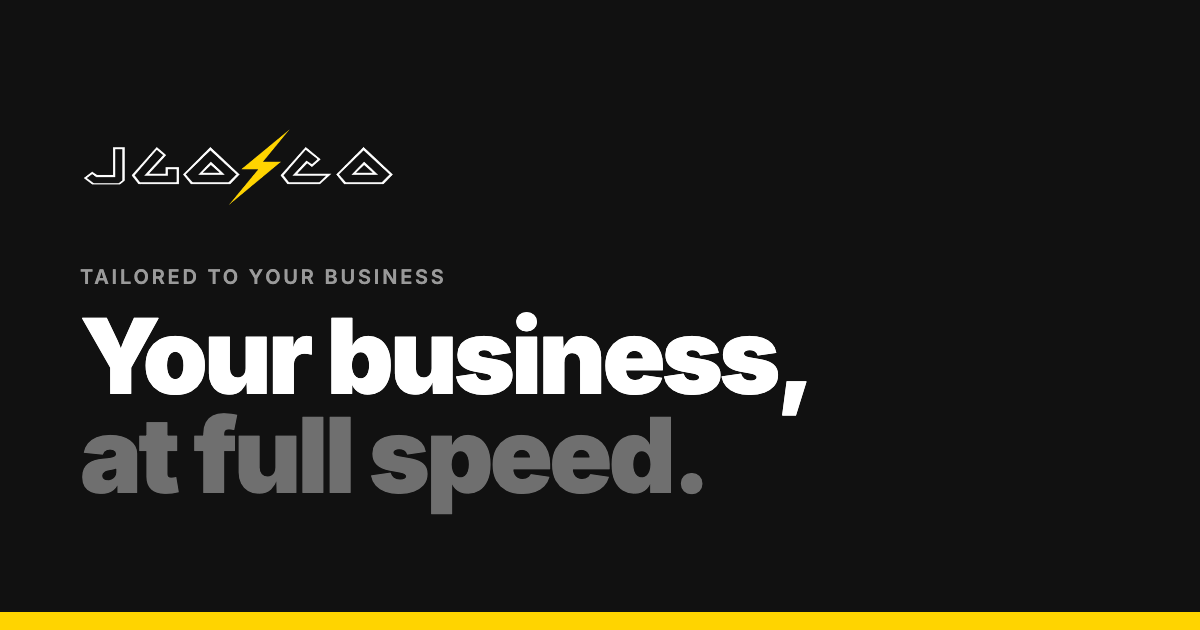
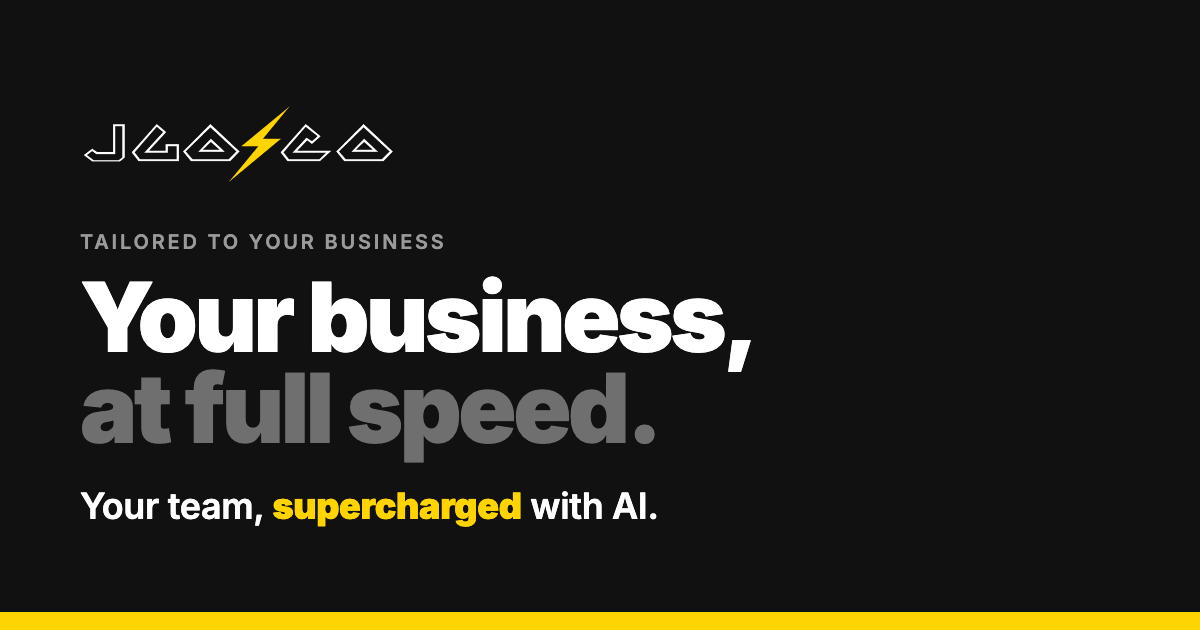
Link card subheader: Your team, supercharged with AI

Changed region(s): [[0.0617, 0.4222, 0.6783, 0.8444], [0.0617, 0.181, 0.3392, 0.3016], [0.0617, 0.3619, 0.37, 0.3921]]

diff --git a/consult.html b/consult.html
@@ -7,7 +7,7 @@
 <meta name="description" content="A few questions about your business, so the first conversation is about you.">
 <meta property="og:title" content="Book a consultation with JGoCo">
 <meta property="og:description" content="A few questions about your business. About five minutes.">
-<meta property="og:image" content="https://jgoco.me/img/og-card.png?v=2">
+<meta property="og:image" content="https://jgoco.me/img/og-card.png?v=3">
 <meta name="twitter:card" content="summary_large_image">
 <link rel="icon" type="image/png" href="img/favicon.png">
 <link rel="apple-touch-icon" href="img/apple-touch-icon.png">

diff --git a/index.html b/index.html
@@ -7,7 +7,7 @@
 <meta name="description" content="We optimize the systems you already run, rebuild the ones holding you back, and give your team AI tools that move faster than ever.">
 <meta property="og:title" content="JGoCo">
 <meta property="og:description" content="Optimize. Rebuild. Move faster with AI.">
-<meta property="og:image" content="https://jgoco.me/img/og-card.png?v=2">
+<meta property="og:image" content="https://jgoco.me/img/og-card.png?v=3">
 <meta property="og:url" content="https://jgoco.me/">
 <meta property="og:type" content="website">
 <meta name="twitter:card" content="summary_large_image">

diff --git a/start.html b/start.html
@@ -8,7 +8,7 @@
 <meta name="description" content="A short voice conversation about how your business runs.">
 <meta property="og:title" content="Getting started with JGoCo">
 <meta property="og:description" content="A short voice conversation about how your business runs.">
-<meta property="og:image" content="https://jgoco.me/img/og-card.png?v=2">
+<meta property="og:image" content="https://jgoco.me/img/og-card.png?v=3">
 <meta name="twitter:card" content="summary_large_image">
 <link rel="icon" type="image/png" href="img/favicon.png">
 <link rel="apple-touch-icon" href="img/apple-touch-icon.png">
